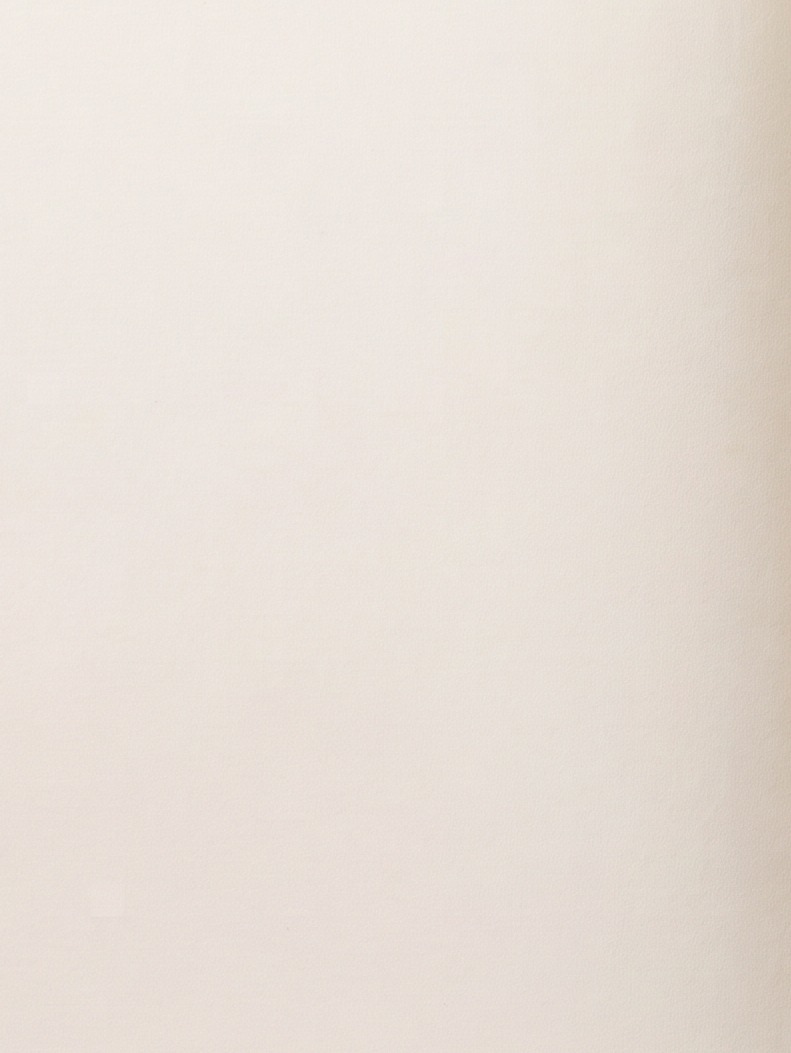
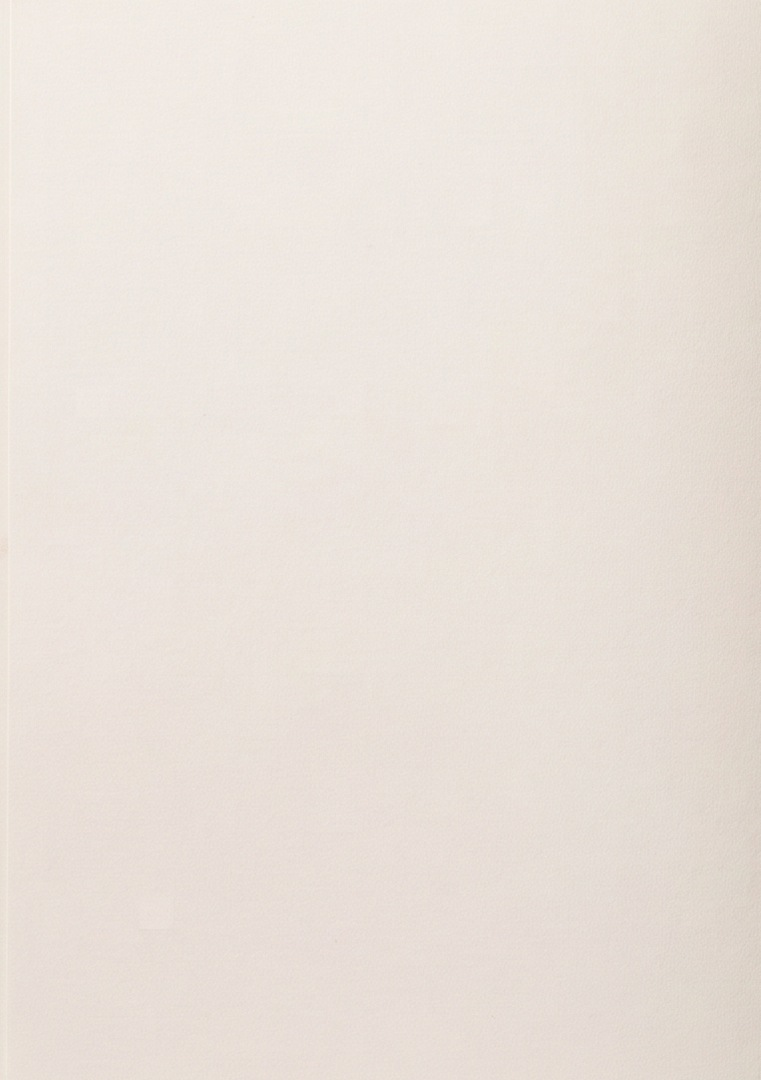
Isolate sketchbook pages to cream paper without cover.
Place left/right page plates on detected paper rects and regenerate
faces from cover-free crops so khaki binding stays in the photo only.

Changed region(s): [[0.9671, 0.0, 1.0, 0.7597]]

diff --git a/src/components/SketchbookPages.tsx b/src/components/SketchbookPages.tsx
@@ -7,6 +7,15 @@ type SketchbookPagesProps = {
   active: boolean
 }
 
+function rectStyle(r: { left: number; top: number; width: number; height: number }) {
+  return {
+    left: `${r.left * 100}%`,
+    top: `${r.top * 100}%`,
+    width: `${r.width * 100}%`,
+    height: `${r.height * 100}%`,
+  }
+}
+
 export function SketchbookPages({ active }: SketchbookPagesProps) {
   const [index, setIndex] = useState(0)
   const [busy, setBusy] = useState(false)
@@ -16,7 +25,7 @@ export function SketchbookPages({ active }: SketchbookPagesProps) {
   const last = spreads.length - 1
   const current = spreads[index]
   const next = spreads[Math.min(index + 1, last)]
-  const { left, top, width, height } = SKETCHBOOK.pageRect
+  const { leftPage, rightPage, pageRect } = SKETCHBOOK
 
   useLayoutEffect(() => {
     if (!active) {
@@ -36,12 +45,8 @@ export function SketchbookPages({ active }: SketchbookPagesProps) {
 
     const front = leaf.querySelector<HTMLElement>('.page-face--front')
     const back = leaf.querySelector<HTMLElement>('.page-face--back')
-    if (front) {
-      front.style.backgroundImage = `url(${spreads[index].right})`
-    }
-    if (back) {
-      back.style.backgroundImage = `url(${spreads[index + 1].left})`
-    }
+    if (front) front.style.backgroundImage = `url(${spreads[index].right})`
+    if (back) back.style.backgroundImage = `url(${spreads[index + 1].left})`
 
     gsap.set(leaf, {
       rotationY: 0,
@@ -68,12 +73,8 @@ export function SketchbookPages({ active }: SketchbookPagesProps) {
 
     const front = leaf.querySelector<HTMLElement>('.page-face--front')
     const back = leaf.querySelector<HTMLElement>('.page-face--back')
-    if (front) {
-      front.style.backgroundImage = `url(${spreads[index - 1].right})`
-    }
-    if (back) {
-      back.style.backgroundImage = `url(${spreads[index].left})`
-    }
+    if (front) front.style.backgroundImage = `url(${spreads[index - 1].right})`
+    if (back) back.style.backgroundImage = `url(${spreads[index].left})`
 
     gsap.set(leaf, {
       rotationY: -180,
@@ -109,42 +110,47 @@ export function SketchbookPages({ active }: SketchbookPagesProps) {
 
   return (
     <div className={`sketchbook-pages ${active ? 'is-active' : ''}`}>
+      {/* Absolute page plates sit on cream paper only — cover stays in the photo. */}
       <div
-        className="sketchbook-pages__stage"
+        className="page-plate page-plate--left"
         style={{
-          left: `${left * 100}%`,
-          top: `${top * 100}%`,
-          width: `${width * 100}%`,
-          height: `${height * 100}%`,
+          ...rectStyle(leftPage),
+          backgroundImage: `url(${current.left})`,
         }}
+        aria-hidden
+      />
+      <div
+        className="page-plate page-plate--right page-plate--under"
+        style={{
+          ...rectStyle(rightPage),
+          backgroundImage: `url(${index < last ? next.right : current.right})`,
+        }}
+        aria-hidden
+      />
+      <button
+        type="button"
+        className="page-plate page-plate--right page-plate--hit"
+        style={{
+          ...rectStyle(rightPage),
+          backgroundImage: `url(${current.right})`,
+        }}
+        aria-label="Turn to next page"
+        disabled={!active || busy || index >= last}
+        onClick={turnForward}
+      />
+      <button
+        type="button"
+        className="page-plate page-plate--left page-plate--hit-prev"
+        style={rectStyle(leftPage)}
+        aria-label="Turn to previous page"
+        disabled={!active || busy || index <= 0}
+        onClick={turnBack}
+      />
+
+      <div
+        className="page-leaf-stage"
+        style={rectStyle(rightPage)}
       >
-        <div
-          className="page-half page-half--left"
-          style={{ backgroundImage: `url(${current.left})` }}
-          aria-hidden
-        />
-        <div
-          className="page-half page-half--right page-half--under"
-          style={{
-            backgroundImage: `url(${index < last ? next.right : current.right})`,
-          }}
-          aria-hidden
-        />
-        <button
-          type="button"
-          className="page-half page-half--right page-half--hit"
-          style={{ backgroundImage: `url(${current.right})` }}
-          aria-label="Turn to next page"
-          disabled={!active || busy || index >= last}
-          onClick={turnForward}
-        />
-        <button
-          type="button"
-          className="page-half page-half--left page-half--hit-prev"
-          aria-label="Turn to previous page"
-          disabled={!active || busy || index <= 0}
-          onClick={turnBack}
-        />
         <div ref={leafRef} className="page-leaf" aria-hidden>
           <div className="page-face page-face--front" />
           <div className="page-face page-face--back" />
@@ -152,7 +158,13 @@ export function SketchbookPages({ active }: SketchbookPagesProps) {
         </div>
       </div>
 
-      <div className="sketchbook-pages__nav">
+      <div
+        className="sketchbook-pages__nav"
+        style={{
+          left: `${(pageRect.left + pageRect.width / 2) * 100}%`,
+          top: `${(pageRect.top + pageRect.height) * 100}%`,
+        }}
+      >
         <button
           type="button"
           className="sketchbook-nav-btn"

diff --git a/src/components/SketchbookPages.css b/src/components/SketchbookPages.css
@@ -12,68 +12,54 @@
   opacity: 1;
 }
 
-.sketchbook-pages__stage {
+.page-plate {
   position: absolute;
-  perspective: 2200px;
-  perspective-origin: 50% 50%;
-  transform-style: preserve-3d;
-}
-
-.page-half {
-  position: absolute;
-  top: 0;
-  width: 50%;
-  height: 100%;
+  margin: 0;
+  padding: 0;
+  border: 0;
+  background-color: #f2ebe3;
   background-size: 100% 100%;
   background-repeat: no-repeat;
   background-position: center;
-  border: 0;
-  padding: 0;
-  /* Soft clip so cover fringe never peeks from page faces */
   overflow: hidden;
-  background-color: #f3eee6;
+  border-radius: 2px;
 }
 
-.page-half--left {
-  left: 0;
-}
-
-.page-half--right {
-  left: 50%;
-}
-
-.page-half--under {
+.page-plate--under {
   z-index: 1;
 }
 
-.page-half--hit {
+.page-plate--hit {
   z-index: 2;
   cursor: pointer;
-  background-color: transparent;
 }
 
-.page-half--hit:disabled {
+.page-plate--hit:disabled {
   cursor: default;
 }
 
-.page-half--hit-prev {
+.page-plate--hit-prev {
   z-index: 3;
-  left: 0;
-  background: transparent;
+  background-color: transparent;
+  background-image: none !important;
   cursor: pointer;
 }
 
-.page-half--hit-prev:disabled {
+.page-plate--hit-prev:disabled {
   cursor: default;
+}
+
+.page-leaf-stage {
+  position: absolute;
+  z-index: 4;
+  perspective: 2200px;
+  perspective-origin: left center;
+  pointer-events: none;
 }
 
 .page-leaf {
   position: absolute;
-  top: 0;
-  left: 50%;
-  width: 50%;
-  height: 100%;
-  z-index: 4;
+  inset: 0;
   transform-style: preserve-3d;
   transform-origin: left center;
   visibility: hidden;
@@ -88,16 +74,14 @@
   background-size: 100% 100%;
   background-repeat: no-repeat;
   background-position: center;
-  box-shadow: inset 0 0 24px rgba(40, 30, 20, 0.06);
-}
-
-.page-face--front {
-  background-color: #f7f2ea;
+  background-color: #f2ebe3;
+  box-shadow: inset 0 0 24px rgba(40, 30, 20, 0.05);
+  border-radius: 2px;
+  overflow: hidden;
 }
 
 .page-face--back {
   transform: rotateY(180deg);
-  background-color: #f3eee6;
 }
 
 .page-leaf__shade {
@@ -105,9 +89,10 @@
   inset: 0;
   z-index: 2;
   pointer-events: none;
+  border-radius: 2px;
   background: linear-gradient(
     90deg,
-    rgba(40, 28, 18, 0.18) 0%,
+    rgba(40, 28, 18, 0.16) 0%,
     rgba(40, 28, 18, 0.02) 18%,
     transparent 42%
   );
@@ -118,9 +103,7 @@
 
 .sketchbook-pages__nav {
   position: absolute;
-  left: 50%;
-  bottom: 18px;
-  transform: translateX(-50%);
+  transform: translate(-50%, 14px);
   display: flex;
   align-items: center;
   gap: 12px;

diff --git a/src/lib/config.ts b/src/lib/config.ts
@@ -46,17 +46,28 @@ export const NOTEBOOK = {
 } as const
 
 /**
- * Top-down sketchbook reader (image-normalized page rect inside
- * `public/sketchbook-overhead.jpg`). Spreads are left/right page faces;
- * replace art when real pages arrive — turn animation stays the same.
+ * Top-down sketchbook reader. Page faces are cream paper only (no khaki cover).
+ * `leftPage` / `rightPage` are image-normalized rects inside the overhead still.
  */
 export const SKETCHBOOK = {
-  /** Cream paper only — excludes khaki cover border around the spread. */
+  /** Union of both pages — used for nav placement / focus. */
   pageRect: {
-    left: 0.19949127906976744,
-    top: 0.15364583333333334,
-    width: 0.5882994186046512,
-    height: 0.685546875,
+    left: 0.1816860465116279,
+    top: 0.14453125,
+    width: 0.627906976744186,
+    height: 0.7037760416666666,
+  },
+  leftPage: {
+    left: 0.1816860465116279,
+    top: 0.14453125,
+    width: 0.2768895348837209,
+    height: 0.7037760416666666,
+  },
+  rightPage: {
+    left: 0.5105377906976745,
+    top: 0.14453125,
+    width: 0.29905523255813954,
+    height: 0.7024739583333334,
   },
   spreads: [
     {
